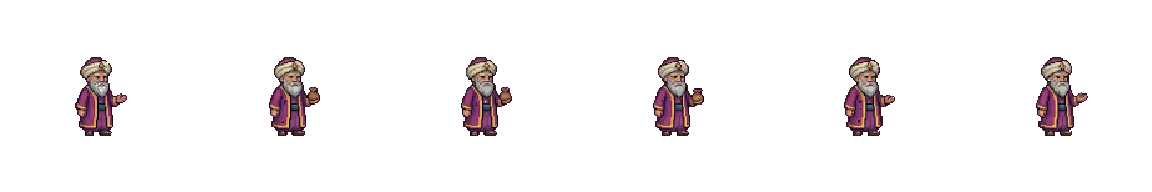
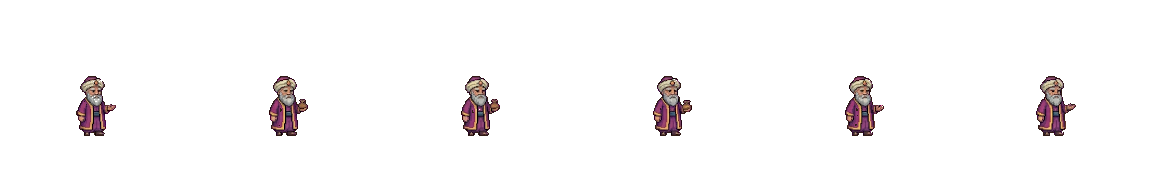
v223: 3-day raid every 10 days with scaling, milestone chests, smaller caravan, 14-day calendar
Claude-Session: https://claude.ai/code/session_014dDJFgpBf2uephg2yojD2h

diff --git a/index.html b/index.html
@@ -369,14 +369,14 @@ button:focus-visible,input:focus-visible{outline:2px solid var(--gold);outline-o
 .gcwrap{display:flex;flex-direction:column;gap:8px;color:#3a2510}.gchd{display:flex;flex-wrap:wrap;gap:6px 16px;font-size:12.5px;justify-content:center}
 .gcstage{position:relative;border:3px solid #4e2e12;border-radius:9px;overflow:hidden;line-height:0}.gcstage canvas{width:100%;height:auto;display:block;image-rendering:pixelated}
 .gcres{position:absolute;inset:0;display:flex;flex-direction:column;align-items:center;justify-content:center;gap:6px;background:rgba(20,10,4,.62);color:#fff3dc;line-height:1.3;text-align:center;padding:10px}.gcres b{font-size:22px;color:#ffd27a}.gcres.lose b{color:#ff8a6a}
-.gclist{display:grid;grid-template-columns:1fr 1fr;gap:6px}.gcw{display:grid;grid-template-columns:1fr auto;gap:1px 8px;align-items:center;padding:5px 8px;background:rgba(255,248,230,.55);border:2px solid rgba(122,75,34,.4);border-radius:8px;font-size:12px}
+.gclist{display:grid;grid-template-columns:repeat(3,minmax(0,1fr));gap:5px}.gcday{display:flex;flex-direction:column;gap:5px}.gcdt{display:none}.gcms{display:flex;flex-wrap:wrap;gap:5px;align-items:center}.gcms i{font-style:normal;font-weight:800;font-size:11px;padding:1px 6px;border-radius:9px;background:rgba(122,75,34,.2);opacity:.7}.gcms i.rdy{background:#ffd27a;opacity:1;box-shadow:0 0 6px #ffb84a}.gcms i.got{background:#9bd07a;opacity:1}.gcms .btn{font-size:11.5px}.gcw{display:grid;grid-template-columns:1fr auto;gap:1px 8px;align-items:center;padding:5px 8px;background:rgba(255,248,230,.55);border:2px solid rgba(122,75,34,.4);border-radius:8px;font-size:12px}
 .gcw b{font-size:13px}.gcn{grid-column:1/3;font-size:10.5px;opacity:.75}.gcp{font-weight:700}.gcr{grid-column:1;font-size:11px}.gcw .btn,.gcw em{grid-column:2;grid-row:2/4;font-style:normal;font-size:12px;white-space:nowrap}.gcw em.ok{color:#2f7d32;font-weight:800}.gcw em.no{color:#b8432f;font-weight:800}
 .gcw.open{background:rgba(255,224,140,.6);border-color:#c98b10}.gcw.won{background:rgba(190,230,170,.5)}.gcw.lost{background:rgba(240,180,160,.5)}
 .gcft{display:flex;flex-wrap:wrap;gap:6px;align-items:center;justify-content:space-between;font-size:12px}.gcburn{display:flex;gap:6px;align-items:center;color:#9a2a10;font-weight:700}
 @media (max-width:640px){.tngrid{grid-template-columns:repeat(2,1fr)}.gclist{grid-template-columns:1fr}.gcw{padding:4px 7px}}
 .tnnm{display:flex;flex-direction:column;align-items:center;gap:2px}
 @media (max-width:640px){.tnq{display:none}.tnhd{padding:5px 8px;gap:8px}.tnbig{font-size:30px}.tngrid{grid-template-columns:1fr;gap:5px}.tnc{flex-direction:row;padding:5px 8px;text-align:left;gap:8px}.tnc .tnnm{align-items:flex-start;flex:1}.tnc b{min-height:0}.tnc .btn{width:auto;min-width:96px}.tnic{height:34px;width:38px;justify-content:center}.tnd{top:-6px;right:auto;left:-4px}
-.gclist{grid-template-columns:1fr 1fr;gap:5px}.gcw{grid-template-columns:1fr;padding:4px 6px}.gcw .btn,.gcw em{grid-column:1;grid-row:auto;margin-top:3px;font-size:11.5px;text-align:center}.gcn{grid-column:1}.gcw b{font-size:12px}.gchd{font-size:11.5px;gap:2px 10px}.gcft{font-size:11px}.gcft .btn{width:100%}.gch2{font-size:19px!important}.gcw .btn{padding:2px 4px}.gcwrap{gap:6px}}
+.gclist{grid-template-columns:1fr}.gcday{display:none}.gcday.on{display:flex}.gcdt{display:flex;gap:5px}.gcdt .btn{flex:1;font-size:12px;padding:3px}.gcms .btn{width:100%}.gcw .btn,.gcw em{grid-column:1;grid-row:auto;margin-top:3px;font-size:11.5px;text-align:center}.gcn{grid-column:1}.gcw b{font-size:12px}.gchd{font-size:11.5px;gap:2px 10px}.gcft{font-size:11px}.gcft .btn{width:100%}.gch2{font-size:19px!important}.gcw .btn{padding:2px 4px}.gcwrap{gap:6px}}
 .evdot{position:relative}.evdot::after{content:'';position:absolute;top:-3px;right:-3px;width:9px;height:9px;border-radius:50%;background:#e8384f;border:2px solid #fff3c4}
 .evdays{display:grid;grid-template-columns:repeat(5,minmax(0,1fr));gap:6px;margin:6px 0 8px}
[1 lines of base64/hex data omitted]
@@ -677,7 +677,7 @@ table.cmp .ok{color:#2f7a2a}table.cmp .no{color:#b22a1a}table.cmp tr.bad td{back
 <script>
 "use strict";
 // Phiên bản game: tăng mỗi lần phát hành để người chơi biết đang chạy bản nào
-const GAME_VER='222',GAME_DATE='03/11/2026';
+const GAME_VER='223',GAME_DATE='03/11/2026';
 // ================= cấu hình chung =================
 const T=64;
 const $=id=>document.getElementById(id);
@@ -697,7 +697,7 @@ function loadAssets(){let ok=0;return Promise.all(ANAMES.map(n=>new Promise(res=
 // đáy và đỉnh thật (bỏ phần trong suốt) của ảnh công trình
 const BOTTOM={b_archery:240,b_castle:249,r_castle:249,b_house1:173,y_house1:173,p_house1:173,b_house2:178,y_house2:178,p_house2:178,b_house3:172,y_house3:172,b_barracks:245,p_barracks:245,b_monastery:310,y_monastery:310,y_archery:240,b_tower:230,r_tower:230};
 const TOPV={b_archery:61,b_castle:41,b_house1:16,y_house1:16,p_house1:16,b_house2:23,y_house2:23,p_house2:23,b_house3:37,y_house3:37,b_barracks:58,p_barracks:58,b_monastery:45,y_monastery:45,y_archery:61,b_tower:46};
-const TN_POS={x:9.4,y:12.6};
+const TN_POS={x:9.5,y:12.85};
 const SHEET={def:{fw:192,fh:192,ax:96,ay:136},hk:{fw:192,fh:240,ax:96,ay:200},gb:{fw:288,fh:216,ax:144,ay:200,big:1},dk:{fw:320,fh:216,ax:160,ay:200,big:1},rk:{fw:400,fh:216,ax:170,ay:200,big:1},lan:{fw:320,fh:320,ax:160,ay:198},sheep:{fw:128,fh:128,ax:64,ay:84},tree1:{fw:192,fh:256,ax:96,ay:238},tree2:{fw:192,fh:256,ax:96,ay:245},tree3:{fw:192,fh:192,ax:96,ay:166},tree4:{fw:192,fh:192,ax:96,ay:164},bush:{fw:128,fh:128,ax:64,ay:78},fx:{fw:64,fh:64,ax:32,ay:64},wrock:{fw:64,fh:64,ax:32,ay:48}};
 function anim(g,key,sh,frame,x,y,flip,alpha){
   const img=A[key];if(!img)return;const s=SHEET[sh]||SHEET.def,n=Math.max(1,Math.floor(img.width/s.fw)),f=((Math.floor(frame)%n)+n)%n;
@@ -1949,7 +1949,7 @@ function render(ts){
     {const y=sy((FIELD.y+FIELD.h)*T)+22*SCALE;RIBX.field={x:ribbon('Ruộng làng',sx((FIELD.x+FIELD.w/2)*T),y,knows('farmer')?4:8,'ic4'),y}}
     {const y=sy(MARKET.y*T+MARKET.h*T-MKT_H)-12;RIBX.market={x:ribbon('Chợ làng',sx((MARKET.x+MARKET.w/2)*T),y,knows('merchant')?0:8,'ic3'),y}}
     {const L=S.lake,nn=L?L.net.n:0;ribbon(ngNow().day?'✨ Ngư dân thần bí':nn?`Hồ ước nguyện · ${nn} lần cắn`:'Hồ ước nguyện',sx(POND.cx*T),sy((POND.cy-POND.ry)*T)-6,ngNow().day?4:nn?2:6,null)}
-    if(S&&tnOpen()&&tnNow().open)ribbon(`🐫 Đoàn thương nhân · ${fmtLeft(tnNow().end-Date.now())}`,sx(TN_POS.x*T),sy(TN_POS.y*T-(A.tn_cart?A.tn_cart.height:104))-10,4,null);
+    if(S&&tnOpen()&&tnNow().open)ribbon(`🐫 Đoàn thương nhân · ${fmtLeft(tnNow().end-Date.now())}`,sx(TN_POS.x*T),sy(TN_POS.y*T-(A.tn_cart?A.tn_cart.height:104))-14,4,null);
     ribbon('Ra ngoài làng',sx(32.5*T),sy(9*T)-34*SCALE,2,'ic5');
   } else if(M.wild!=null){const ci=M.wild;
     REPLAY.length=0;
@@ -2900,56 +2900,65 @@ function openCaravan(){const N=tnNow();
   if($('tnNpc')){const g=$('tnNpc').getContext('2d');let f=0;const st=()=>{if(!$('tnNpc'))return;g.clearRect(0,0,96,96);g.save();g.scale(.5,.5);anim(g,'tn_npc','def',f++/8,96,150);g.restore();requestAnimationFrame(st)};st()}
   $('sheet').querySelectorAll('[data-tn]').forEach(b=>b.onclick=()=>{const m=tnBuy(+b.dataset.tn);if(m){sfx('coin');toast(`Đã mua: ${m}`);openCaravan()}})}
 // đoàn xe trên bản đồ làng (dùng hình Gemini tn_cart nếu có, chưa có thì vẽ tạm)
-function drawCaravan(g,x,y,time){if(A.tn_cart){const im=A.tn_cart;g.drawImage(im,Math.round(x-im.width/2),Math.round(y-im.height))}
+function drawCaravan(g,x,y,time){if(A.tn_cart){const im=A.tn_cart,X=Math.round(x-im.width/2),Y=Math.round(y-im.height);g.fillStyle='rgba(30,40,10,.28)';g.beginPath();g.ellipse(x+12,y-3,im.width*.36,7,0,0,Math.PI*2);g.fill();g.beginPath();g.ellipse(X+26,y-3,20,5,0,0,Math.PI*2);g.fill();g.drawImage(im,X,Y)}
   else{const b=Math.sin(time*2)*1;g.fillStyle='rgba(0,0,0,.25)';g.beginPath();g.ellipse(x,y-2,70,10,0,0,Math.PI*2);g.fill();
     g.fillStyle='#6b4423';g.fillRect(x-58,y-44,104,28);g.fillStyle='#8a5a2e';g.fillRect(x-58,y-44,104,6);g.strokeStyle='#2a1a0c';g.lineWidth=3;g.strokeRect(x-58,y-44,104,28);
     g.fillStyle='#e8d6a8';g.beginPath();g.moveTo(x-56,y-44);g.quadraticCurveTo(x-6,y-104+b,x+44,y-44);g.closePath();g.fill();g.stroke();
     g.fillStyle='#b8432f';for(let i=0;i<3;i++)g.fillRect(x-38+i*28,y-74+(i===1?-8:0),6,30);
     for(const wx of [x-36,x+26]){g.fillStyle='#3a2414';g.beginPath();g.arc(wx,y-14,13,0,Math.PI*2);g.fill();g.fillStyle='#a87a44';g.beginPath();g.arc(wx,y-14,8,0,Math.PI*2);g.fill();g.fillStyle='#3a2414';g.fillRect(wx-2,y-16,4,4)}
     g.fillStyle='#d9a21b';g.fillRect(x+40,y-34,14,12);g.strokeRect(x+40,y-34,14,12)}
-  if(A.tn_npc&&A.tn_cart)anim(g,'tn_npc','def',time*6,x+A.tn_cart.width/2+22,y+2,true);else if(A.tn_npc)anim(g,'tn_npc','def',time*6,x-80,y+4,false);else anim(g,'pawn_idle_gold','def',time*8,x-76,y+4,false)}
+  if(A.tn_npc&&A.tn_cart){g.fillStyle='rgba(30,40,10,.28)';g.beginPath();g.ellipse(Math.round(x+A.tn_cart.width/2+16),y-1,14,4,0,0,Math.PI*2);g.fill();anim(g,'tn_npc','def',time*4,Math.round(x+A.tn_cart.width/2+16),y,true)}else if(A.tn_npc)anim(g,'tn_npc','def',time*6,x-80,y+4,false);else anim(g,'pawn_idle_gold','def',time*8,x-76,y+4,false)}
 
 // ----- Sự kiện Giặc cướp công thành: 18 ngày một lần, 2 ngày; mỗi ngày 3 đợt giặc (8h, 14h, 20h) -----
-const GC_NAME='Giặc cướp công thành',GC_OFF=11,GC_CYC=18,GC_LEN=2,GC_LV=30,GC_KEEP=12,GC_H=[8,14,20],GC_BURN=6*3600e3;
+const GC_NAME='Giặc cướp công thành',GC_OFF=11,GC_CYC=10,GC_LEN=3,GC_LV=30,GC_KEEP=12,GC_H=[8,14,20],GC_BURN=6*3600e3;
 const gcDate=n=>evDate(GC_OFF+n);
 function gcNow(t=Date.now()){const m=new Date(t);m.setHours(0,0,0,0);const d=Math.round((m.getTime()-gcDate(0))/864e5);
   if(d<0)return{pre:true,day:0,next:gcDate(0)};const c=Math.floor(d/GC_CYC),dd=d%GC_CYC;
   if(dd>=GC_LEN)return{off:true,day:0,next:gcDate((c+1)*GC_CYC)};return{day:dd+1,c,end:gcDate(c*GC_CYC+dd+1),cend:gcDate(c*GC_CYC+GC_LEN)}}
 const gcOpen=()=>!!S&&((S.hero&&S.hero.lv)||1)>=GC_LV&&S.keep>=GC_KEEP;
 function gcS(){const N=gcNow();if(!S.gc)S.gc={c:-9,base:0,w:[],bonus:0,burn:{}};if(!S.gc.burn)S.gc.burn={};
-  if(N.day&&S.gc.c!==N.c){S.gc.c=N.c;S.gc.base=Math.max(100,power());S.gc.w=[];S.gc.bonus=0}
+  if(N.day&&S.gc.c!==N.c&&gcOpen()){S.gc.c=N.c;S.gc.n=(S.gc.n||0)+1;S.gc.base=Math.max(100,power());S.gc.w=[];S.gc.bonus=0}
   const now=Date.now();for(const k in S.gc.burn)if(S.gc.burn[k]<=now)delete S.gc.burn[k];return S.gc}
 const gcBurnt=(t,i)=>!!(S&&S.gc&&S.gc.burn&&S.gc.burn[t+':'+i]>Date.now());
 // đợt w (0..5) mở lúc GC_H của ngày tương ứng, còn đánh được tới hết sự kiện
 function gcWaveAt(w){const N=gcNow();if(!N.day)return 0;const d0=gcDate(N.c*GC_CYC),d=new Date(d0);d.setDate(d.getDate()+Math.floor(w/3));d.setHours(GC_H[w%3],0,0,0);return d.getTime()}
-const GC_FN=['Toán cướp lẻ tẻ','Bọn cướp đường','Giặc núi','Quân phỉ hắc kỳ','Đạo tặc tinh nhuệ','Đại quân giặc đêm'];
-const GC_FK=['gob','gob','dwar','rwar','dwar','rwar'];
-const gcFoe=w=>Math.round(gcS().base*(.8+.1*w));
+const GC_W=GC_LEN*3,GC_FN=['Toán cướp lẻ tẻ','Bọn cướp đường','Giặc núi đêm','Quân phỉ hắc kỳ','Đạo tặc tinh nhuệ','Đại quân giặc đêm','Thiết kỵ phỉ','Tướng cướp mãnh hổ','Vua giặc dạ chiến'];
+const GC_FK=['gob','gob','dwar','rwar','dwar','rwar','dwar','rwar','rwar'];
+const gcLv=()=>Math.max(1,gcS().n||1),gcHard=()=>1+.08*Math.min(20,gcLv()-1);
+const gcFoe=w=>Math.round(gcS().base*gcHard()*(.8+.075*w));
 const gcChance=w=>{const r=power()/gcFoe(w);return Math.max(3,Math.min(97,Math.round((r*1.15-.85)/.3*100)))};
 const gcK=()=>1+((S.hero&&S.hero.lv)||1)/10;
-const gcRew=w=>({g:Math.round(2500*gcK()*(1+.35*w)),i:15*(w+1)});
+// đợt đêm (20h) thưởng thêm Đá linh hồn + vé trùm
+const gcRew=w=>({g:Math.round(4000*gcK()*(1+.35*w)*(1+.1*(gcLv()-1))),i:Math.round(25*(w+1)*(1+.1*(gcLv()-1))),t:1+Math.floor(w/3),s:w%3===2?2+Math.floor(w/3):0});
+const GC_MS=[[3,'5 vé trùm chương + 3 Đá linh hồn'],[6,'10 vé + 6 Đá linh hồn + trang bị Sử thi'],[9,'15 vé + 10 Đá linh hồn + trang bị Truyền thuyết + 20 mảnh anh hùng']];
+const gcWins=()=>gcS().w.filter(x=>x===1).length;
 function gcFight(w){const N=gcNow(),G=gcS();if(!N.day||!gcOpen()||G.w[w]||Date.now()<gcWaveAt(w))return null;
   const win=Math.random()*100<gcChance(w);G.w[w]=win?1:2;let msg;
-  if(win){const r=gcRew(w);S.gold+=r.g;S.iron+=r.i;msg=`Giữ thành thành công! +${r.g.toLocaleString('vi-VN')} vàng, +${r.i} sắt.`}
+  if(win){const r=gcRew(w);S.gold+=r.g;S.iron+=r.i;S.tix=(S.tix||0)+r.t;S.soul=(S.soul||0)+r.s;msg=`Giữ thành thành công! +${r.g.toLocaleString('vi-VN')} vàng, +${r.i} sắt, +${r.t} vé trùm${r.s?`, +${r.s} Đá linh hồn`:''}.`}
   else{const c=[];for(const t of ['forge','garden'])(S.slots[t]||[]).forEach((lv,i)=>{if(lv&&!gcBurnt(t,i))c.push([t,i])});
     if(c.length){const [t,i]=c[Math.floor(Math.random()*c.length)];G.burn[t+':'+i]=Date.now()+GC_BURN;msg=`Thành bị phá! ${BUILD[t].name}${BUILD[t].max>1?' '+(i+1):''} bốc cháy, ngừng sản xuất ${fmtDur(GC_BURN)} hoặc tới khi sửa.`}
     else{const l=Math.round(S.gold*.1);S.gold-=l;msg=`Thành bị phá! Giặc cướp mất ${l.toLocaleString('vi-VN')} vàng.`}}
   save();ui();return{win,msg}}
 const gcFixCost=()=>Math.round(1500*gcK());
 function gcFix(k){const G=gcS(),c=gcFixCost();if(!G.burn[k]||S.gold<c)return false;S.gold-=c;delete G.burn[k];save();ui();return true}
-function gcBonus(){const G=gcS();if(G.bonus||[0,1,2,3,4,5].some(w=>G.w[w]!==1))return null;G.bonus=1;S.tix=(S.tix||0)+10;S.soul=(S.soul||0)+5;const it=rollItem(randSlot(),4,ilvB((S.hero&&S.hero.lv)||1)),m=giveItem(it);save();ui();return `+10 vé trùm chương, +5 Đá linh hồn, ${m||itemName(it)}`}
-let gcAnim=null,gcTok=0;
+function gcBonus(){const G=gcS(),b=G.bonus||0,m=GC_MS[b];if(!m||gcWins()<m[0])return null;G.bonus=b+1;const lv=(S.hero&&S.hero.lv)||1;let out=[];
+  if(b===0){S.tix=(S.tix||0)+5;S.soul=(S.soul||0)+3;out.push('+5 vé trùm, +3 Đá linh hồn')}
+  else if(b===1){S.tix=(S.tix||0)+10;S.soul=(S.soul||0)+6;const it=rollItem(randSlot(),3,ilvB(lv)),mm=giveItem(it);out.push('+10 vé trùm, +6 Đá linh hồn',mm||itemName(it))}
+  else{S.tix=(S.tix||0)+15;S.soul=(S.soul||0)+10;const it=rollItem(randSlot(),4,ilvB(lv)),mm=giveItem(it);out.push('+15 vé trùm, +10 Đá linh hồn',mm||itemName(it));const hid=S.heroOn&&hOwn(S.heroOn)?S.heroOn:HEROES[Math.floor(Math.random()*HEROES.length)].id,n=addShard(hid,20);if(n)out.push(`${n} mảnh ${heroById(hid).name}`)}
+  save();ui();return out.join(', ')}
+let gcAnim=null,gcTok=0,gcDay=null;
+const gcDayV=()=>gcDay!=null?gcDay:Math.max(0,(gcNow().day||1)-1);
 function gcBody(){if(!gcOpen())return`<div class="evnow"><span class="evbig">🔒</span><div><b>${GC_NAME} chưa mở với bạn</b><span>Cần nhân vật cấp ${GC_LV} (đang ${(S.hero&&S.hero.lv)||1}) và Nhà chính cấp ${GC_KEEP} (đang ${S.keep}).</span><span>Sa bàn chiến thuật mở ở Nhà chính cấp ${GC_KEEP}: đội hình ở đó dùng để giữ thành.</span></div></div>`;
   const G=gcS(),now=Date.now(),N=gcNow(),nb=Object.keys(G.burn);
-  const rows=[0,1,2,3,4,5].map(w=>{const at=gcWaveAt(w),st=G.w[w],open=now>=at,ch=gcChance(w),r=gcRew(w),d=new Date(at);
-    return`<div class="gcw${st===1?' won':st===2?' lost':open?' open':''}"><span class="gcn">${w<3?'Ngày 1':'Ngày 2'} · ${String(d.getHours()).padStart(2,'0')}:00</span><b>${GC_FN[w]}</b><span class="gcp">⚔ ${gcFoe(w).toLocaleString('vi-VN')}</span><span class="gcr">${IC.gold} ${r.g.toLocaleString('vi-VN')} · ${matIcon(0,14)} ${r.i}</span>${st===1?'<em class="ok">🛡 Đã giữ thành</em>':st===2?'<em class="no">🔥 Bị phá</em>':open?`<button type="button" class="btn pri" data-gcw="${w}">Giữ thành · ${ch}%</button>`:`<em>Tới sau ${fmtDur(at-now)}</em>`}</div>`}).join('');
-  const all=[0,1,2,3,4,5].every(w=>G.w[w]===1);
-  return`<div class="gcwrap"><div class="gchd"><span>Lực chiến của bạn <b>⚔ ${power().toLocaleString('vi-VN')}</b></span><span>Đội hình: <b>${formCur()?formCur().n:'Chưa bày'}</b></span><span>Kết thúc sau <b>${fmtDur(N.cend-now)}</b></span></div>
+  const rows=Array.from({length:GC_W},(_,w)=>w).map(w=>{const at=gcWaveAt(w),st=G.w[w],open=now>=at,ch=gcChance(w),r=gcRew(w),d=new Date(at);
+    return`<div class="gcw${st===1?' won':st===2?' lost':open?' open':''}"><span class="gcn">Ngày ${Math.floor(w/3)+1} · ${String(d.getHours()).padStart(2,'0')}:00</span><b>${GC_FN[w]}</b><span class="gcp">⚔ ${gcFoe(w).toLocaleString('vi-VN')}</span><span class="gcr">${IC.gold} ${fmtK(r.g)} · ${matIcon(0,14)} ${r.i} · ${TIX_IC}${r.t}${r.s?` · ${SOUL_IC}${r.s}`:''}</span>${st===1?'<em class="ok">🛡 Đã giữ thành</em>':st===2?'<em class="no">🔥 Bị phá</em>':open?`<button type="button" class="btn pri" data-gcw="${w}">Giữ thành · ${ch}%</button>`:`<em>Tới sau ${fmtDur(at-now)}</em>`}</div>`});
+  const wins=gcWins(),bm=GC_MS[G.bonus||0],can=bm&&wins>=bm[0];
+  return`<div class="gcwrap"><div class="gchd"><span>Lực chiến của bạn <b>⚔ ${power().toLocaleString('vi-VN')}</b></span><span>Đội hình: <b>${formCur()?formCur().n:'Chưa bày'}</b></span><span>Lần thứ <b>${gcLv()}</b> · giặc mạnh <b>+${Math.round((gcHard()-1)*100)}%</b></span><span>Kết thúc sau <b>${fmtDur(N.cend-now)}</b></span></div>
   <div class="gcstage"><canvas id="gcCv" width="900" height="210"></canvas><div class="gcres" id="gcRes" hidden></div></div>
-  <div class="gclist">${rows}</div>
-  <div class="gcft">${nb.length?nb.map(k=>{const [t,i]=k.split(':');return`<span class="gcburn">🔥 ${BUILD[t].name}${BUILD[t].max>1?' '+(+i+1):''} đang cháy · còn ${fmtDur(G.burn[k]-now)} <button type="button" class="btn" data-gcfix="${k}"${S.gold<gcFixCost()?' disabled':''}>Dập lửa · ${IC.gold} ${gcFixCost().toLocaleString('vi-VN')}</button></span>`}).join(''):'<span>Thua một đợt thì Lò rèn hoặc Vườn thảo dược bị cháy và ngừng sản xuất 6 giờ.</span>'}
-  <button type="button" class="btn${all&&!G.bonus?' pri':''}" id="gcBon"${all&&!G.bonus?'':' disabled'}>${G.bonus?'✓ Đã nhận rương thủ thành':'🎁 Rương thủ thành (giữ đủ 6 đợt)'}</button></div></div>`}
-function gcWire(){const sh=$('sheet');gcDraw(null);
+  <div class="gcdt">${[0,1,2].map(d=>`<button type="button" class="btn${gcDayV()===d?' pri':''}" data-gcd="${d}">Ngày ${d+1}</button>`).join('')}</div><div class="gclist">${[0,1,2].map(d=>`<div class="gcday${gcDayV()===d?' on':''}">${rows.slice(d*3,d*3+3).join('')}</div>`).join('')}</div>
+  <div class="gcft">${nb.length?nb.map(k=>{const [t,i]=k.split(':');return`<span class="gcburn">🔥 ${BUILD[t].name}${BUILD[t].max>1?' '+(+i+1):''} đang cháy · còn ${fmtDur(G.burn[k]-now)} <button type="button" class="btn" data-gcfix="${k}"${S.gold<gcFixCost()?' disabled':''}>Dập lửa · ${IC.gold} ${gcFixCost().toLocaleString('vi-VN')}</button></span>`}).join(''):'<span>Thua thì Lò rèn hoặc Vườn thảo dược bị cháy 6 giờ.</span>'}
+  <div class="gcms"><span>🛡 Giữ được <b>${wins}/${GC_W}</b> đợt</span>${GC_MS.map(([n,t],i)=>`<i class="${(G.bonus||0)>i?'got':wins>=n?'rdy':''}" title="${t}">🎁${n}</i>`).join('')}<button type="button" class="btn${can?' pri':''}" id="gcBon"${can?'':' disabled'} title="${bm?bm[1]:''}">${bm?`Rương ${bm[0]} đợt: ${bm[1]}`:'✓ Đã nhận đủ rương'}</button></div></div></div>`}
+function gcWire(){const sh=$('sheet');gcDraw(null);sh.querySelectorAll('[data-gcd]').forEach(b=>b.onclick=()=>{gcDay=+b.dataset.gcd;openEvent()});
   sh.querySelectorAll('[data-gcw]').forEach(b=>b.onclick=()=>{if(gcAnim)return;const w=+b.dataset.gcw,r=gcFight(w);if(!r)return;sh.querySelectorAll('[data-gcw]').forEach(x=>x.disabled=true);gcDraw({w,win:r.win,t0:performance.now()},()=>{const R=$('gcRes');if(R){R.hidden=false;R.className='gcres '+(r.win?'win':'lose');R.innerHTML=`<b>${r.win?'🛡 Thắng!':'🔥 Thất bại'}</b><span>${r.msg}</span><button type="button" class="btn pri" id="gcOk">Tiếp tục</button>`;$('gcOk').onclick=()=>openEvent()}})});
   sh.querySelectorAll('[data-gcfix]').forEach(b=>b.onclick=()=>{if(gcFix(b.dataset.gcfix)){toast('Đã dập lửa, công trình hoạt động lại.');openEvent()}});
   if($('gcBon'))$('gcBon').onclick=()=>{const m=gcBonus();if(m){sfx('coin');toast('Rương thủ thành: '+m);openEvent()}}}
@@ -2982,11 +2991,11 @@ const CAL_EV=()=>[['ev',1,EV_NAME,evNow,'#7a4fb0'],['ar',2,AR_NAME,arNow,'#b8432
 const calDay=(t0,i)=>{const d=new Date(t0);d.setDate(d.getDate()+i);return d};
 function calRuns(f,t0,n){const on=[];for(let i=0;i<n;i++)on.push(!!f(calDay(t0,i).getTime()+432e5).day);
   const r=[];for(let i=0;i<n;i++)if(on[i]&&(i===0||!on[i-1])){let j=i;while(j+1<n&&on[j+1])j++;let L=j-i+1,k=i;while(k>i-40&&f(calDay(t0,k-1).getTime()+432e5).day){k--;L++}k=j;while(k<j+40&&f(calDay(t0,k+1).getTime()+432e5).day){k++;L++}r.push([i,j,L])}return r}
-function openCal(){const N=innerWidth<640?7:28,CMX=N===7?11:2,t=new Date();t.setHours(0,0,0,0);const t0=calDay(t,calOff*N).getTime(),D=i=>calDay(t0,i),WD=['CN','T2','T3','T4','T5','T6','T7'];
+function openCal(){const N=innerWidth<640?7:14,CMX=N===7?11:5,t=new Date();t.setHours(0,0,0,0);const t0=calDay(t,calOff*N).getTime(),D=i=>calDay(t0,i),WD=['CN','T2','T3','T4','T5','T6','T7'];
   const today=Math.round((t.getTime()-t0)/864e5),gc=`--n:${N};grid-template-columns:repeat(${N},1fr)`;
   const cells=Array.from({length:N},(_,i)=>{const d=D(i);return`<i class="clc${i===today?' td':''}${d.getDay()%6===0?' we':''}" style="grid-column:${i+1}"></i>`}).join('');
   const head=Array.from({length:N},(_,i)=>{const d=D(i);return`<span class="cld${i===today?' td':''}${d.getDay()%6===0?' we':''}" style="grid-column:${i+1}">${i===today?`<span class="clflag">${calIc(5,18)}</span>`:''}${d.getDate()===1&&i>0?`<u>Th${d.getMonth()+1}</u>`:''}<i>${WD[d.getDay()]}</i><b>${d.getDate()}</b></span>`}).join('');
-  const rows=CAL_EV().map(([k,ic,nm,f,c],ri)=>`<div class="clrow"><span class="cln" title="${nm}">${calIc(ic,26)}<b>${nm}</b></span><div class="clbar" style="${gc}">${cells}${calRuns(f,t0,N).map(([a,b,L])=>{const st=D(a),en=D(b);return`<button type="button" class="clseg r${ri}${a===b?' one':''}${today>=a&&today<=b?' now':''}" data-cal="${k}" style="grid-column:${a+1}/${b+2}" title="${nm}: ${st.getDate()}/${st.getMonth()+1} – ${en.getDate()}/${en.getMonth()+1}">${calIc(ic,a===b?24:18)}${b-a>=(N===7?1:2)?`<span>${L} ngày</span>`:''}</button>`}).join('')}</div></div>`).join('');
+  const rows=CAL_EV().map(([k,ic,nm,f,c],ri)=>`<div class="clrow"><span class="cln" title="${nm}">${calIc(ic,26)}<b>${nm}</b></span><div class="clbar" style="${gc}">${cells}${calRuns(f,t0,N).map(([a,b,L])=>{const st=D(a),en=D(b);return`<button type="button" class="clseg r${ri}${a===b?' one':''}${today>=a&&today<=b?' now':''}" data-cal="${k}" style="grid-column:${a+1}/${b+2}" title="${nm}: ${st.getDate()}/${st.getMonth()+1} – ${en.getDate()}/${en.getMonth()+1}">${calIc(ic,a===b?24:18)}${b-a>=1?`<span>${L} ngày</span>`:''}</button>`}).join('')}</div></div>`).join('');
   const now=Date.now(),list=CAL_EV().map(([k,ic,nm,f,c])=>{const s=f(),dn=s.day;let end=0;if(dn){let i=0;while(i<40&&f(calDay(t,i+1).getTime()+432e5).day)i++;end=calDay(t,i+1).getTime()}
     const d=new Date(s.next||0);return[dn?0:(s.next||9e15),`<button type="button" class="clit${dn?' now':''}" data-cal="${k}" style="--c:${c}">${calIc(ic,38)}<span><b>${nm}</b><small>${dn?`Đang diễn ra · ngày ${dn} · còn ${fmtDur(end-now)}`:s.next?`Mở ngày ${d.getDate()}/${d.getMonth()+1} · còn ${fmtDur(s.next-now)}`:'Chưa có lịch'}</small></span>${dn?'<em>Tham gia ›</em>':''}</button>`]}).sort((a,b)=>a[0]-b[0]).map(x=>x[1]).join('');
   const a=D(0),z=D(N-1);
